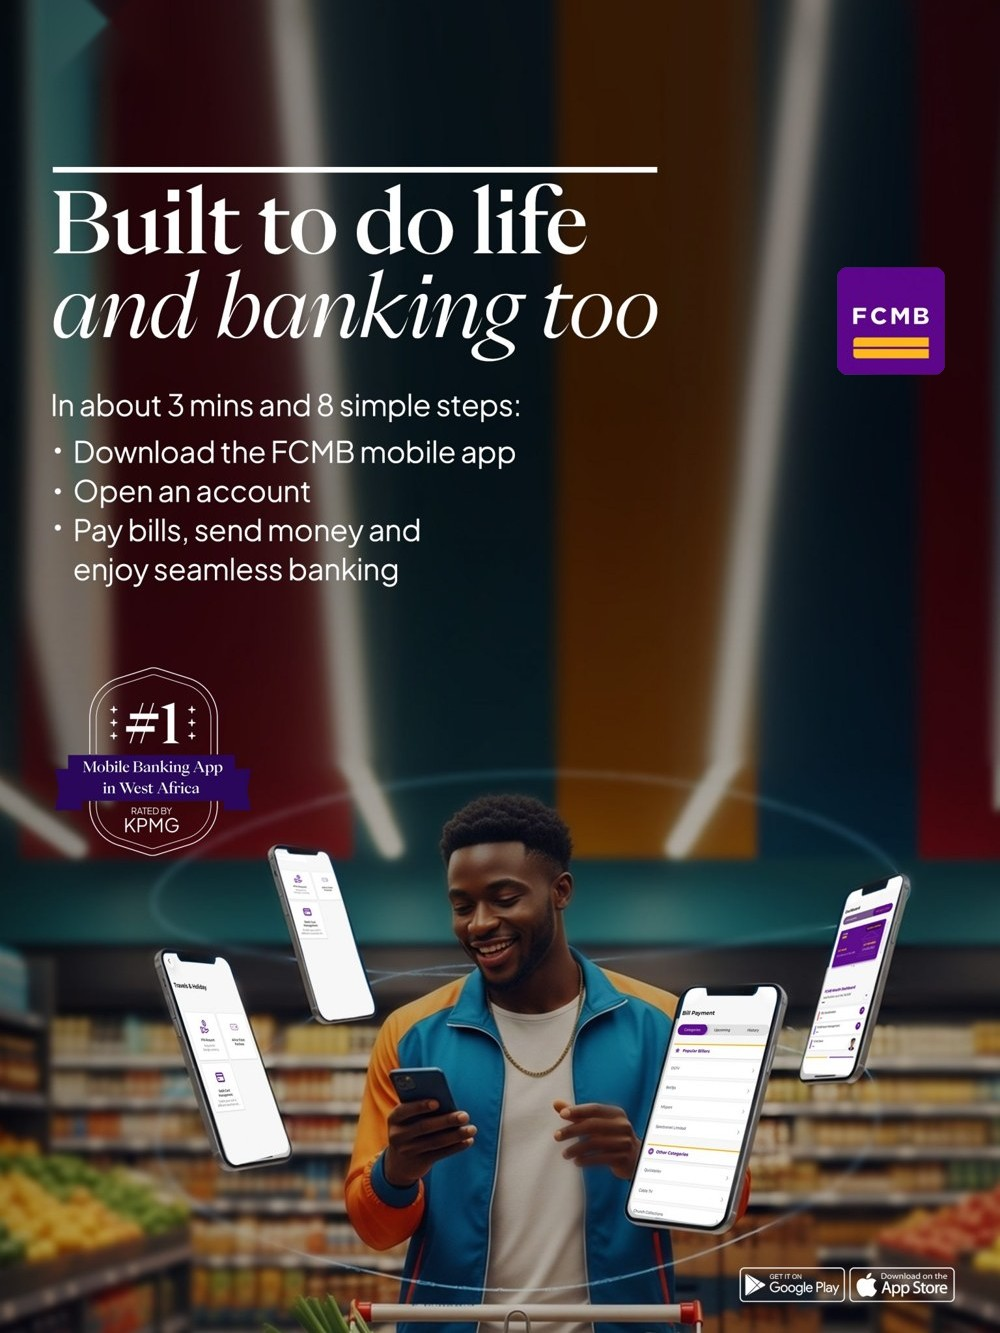
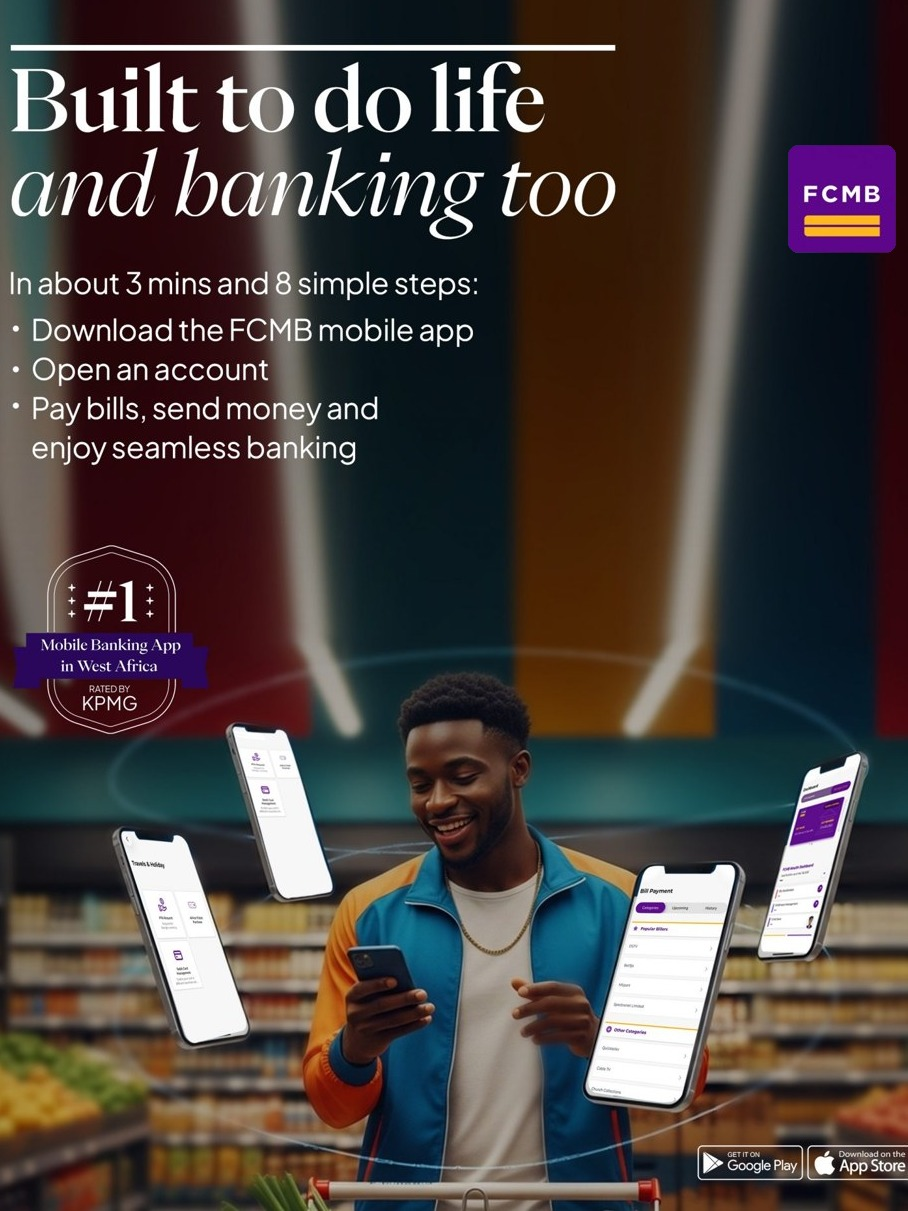
FCMB hero: crop tighter to remove empty photo edges, keep full bottom; add bottom image position

diff --git a/content/site.ts b/content/site.ts
@@ -118,7 +118,7 @@ export type FeaturedAnimation = {
   /** Label for the `href` button. Defaults to "See Full Project →". */
   hrefLabel?: string;
   /** Image only: which part of the picture stays visible when it is cropped to the card. Defaults to center. */
-  position?: "top" | "center";
+  position?: "top" | "center" | "bottom";
   /** Several pieces shown as one slideshow card; each slide carries its own title and description. */
   slides?: { src: string; title: string; description: string }[];
 };
@@ -149,7 +149,7 @@ export type Project = {
   /** Defaults to "cover". Use "contain" for circular logo marks so the full circle stays visible in the portrait hero box instead of being cropped. */
   imageFit?: "cover" | "contain";
   /** Defaults to "center". Use "top" to keep the top of the image (e.g. a poster's logo/title) visible when object-cover crops it. */
-  imagePosition?: "center" | "top";
+  imagePosition?: "center" | "top" | "bottom";
   /** Pinterest-style campaign cards shown on the subpage. */
   campaigns?: Campaign[];
   /** Slide-by-slide case study breakdown shown instead of the campaigns grid. */
@@ -1396,6 +1396,7 @@ export const projects: Project[] = [
     },
     featured: false,
     image: "/images/campaigns/fcmb-hero.jpg",
+    imagePosition: "bottom",
     slides: [
       {
         title: "Featured Campaign",

diff --git a/components/ProjectCarousel.tsx b/components/ProjectCarousel.tsx
@@ -184,7 +184,7 @@ export default function ProjectCarousel({
                     src={project.image}
                     alt=""
                     fill
-                    className={project.imagePosition === "top" ? "object-cover object-top" : "object-cover"}
+                    className={project.imagePosition === "top" ? "object-cover object-top" : project.imagePosition === "bottom" ? "object-cover object-bottom" : "object-cover"}
                     sizes={cfg.imageSizes}
                   />
                 ) : (

diff --git a/app/projects/[slug]/page.tsx b/app/projects/[slug]/page.tsx
@@ -124,7 +124,9 @@ export default async function ProjectPage(
                       ? "object-contain p-6"
                       : project.imagePosition === "top"
                         ? "object-cover object-top"
-                        : "object-cover"
+                        : project.imagePosition === "bottom"
+                          ? "object-cover object-bottom"
+                          : "object-cover"
                   }
                   sizes="(min-width: 640px) 320px, 100vw"
                   priority

diff --git a/app/work/page.tsx b/app/work/page.tsx
@@ -132,7 +132,9 @@ function ProjectPolaroid({ project }: { project: Project }) {
                 ? "object-contain p-6"
                 : project.imagePosition === "top"
                   ? "object-cover object-top"
-                  : "object-cover"
+                  : project.imagePosition === "bottom"
+                    ? "object-cover object-bottom"
+                    : "object-cover"
             }
             sizes="(min-width: 1024px) 23vw, (min-width: 640px) 46vw, 90vw"
           />

diff --git a/components/OtherFeaturedAnimation.tsx b/components/OtherFeaturedAnimation.tsx
@@ -67,7 +67,7 @@ export default function OtherFeaturedAnimation({
                   src={item.src}
                   alt={item.title}
                   className={`h-full w-full object-cover ${
-                    item.position === "top" ? "object-top" : ""
+                    item.position === "top" ? "object-top" : item.position === "bottom" ? "object-bottom" : ""
                   }`}
                 />
               )}
